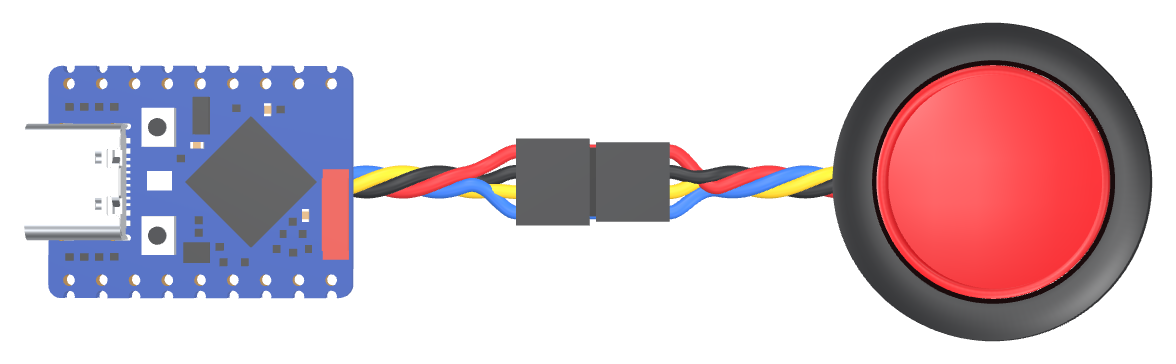
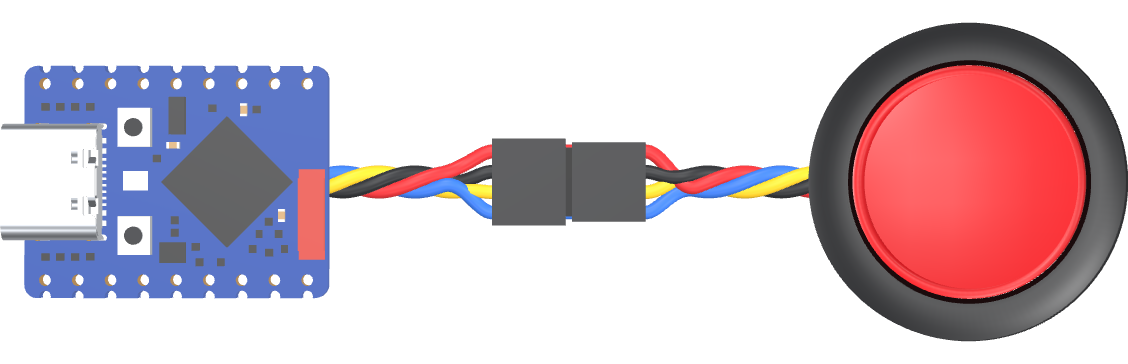
README: scene image as wide as the title, edges cropped to the scene

Changed region(s): [[0.0, 0.1813, 0.4654, 0.8462], [0.5585, 0.0907, 1.0, 0.9368], [0.8067, 0.0604, 0.8998, 0.0907]]

diff --git a/README.md b/README.md
@@ -1,6 +1,6 @@
 # USB Button (Advanced Type)
 
-![The USB Button: a Waveshare ESP32-S3-Zero wired to a red arcade button](resources/arcade-button-scene-horizontal.png)
+<img src="resources/arcade-button-scene-horizontal.png" width="423" alt="The USB Button: a Waveshare ESP32-S3-Zero wired to a red arcade button">
 
 A one-key USB keyboard. Plug it into a computer, press the trigger button, and the
 computer receives the selected key as if it were typed on a keyboard.
